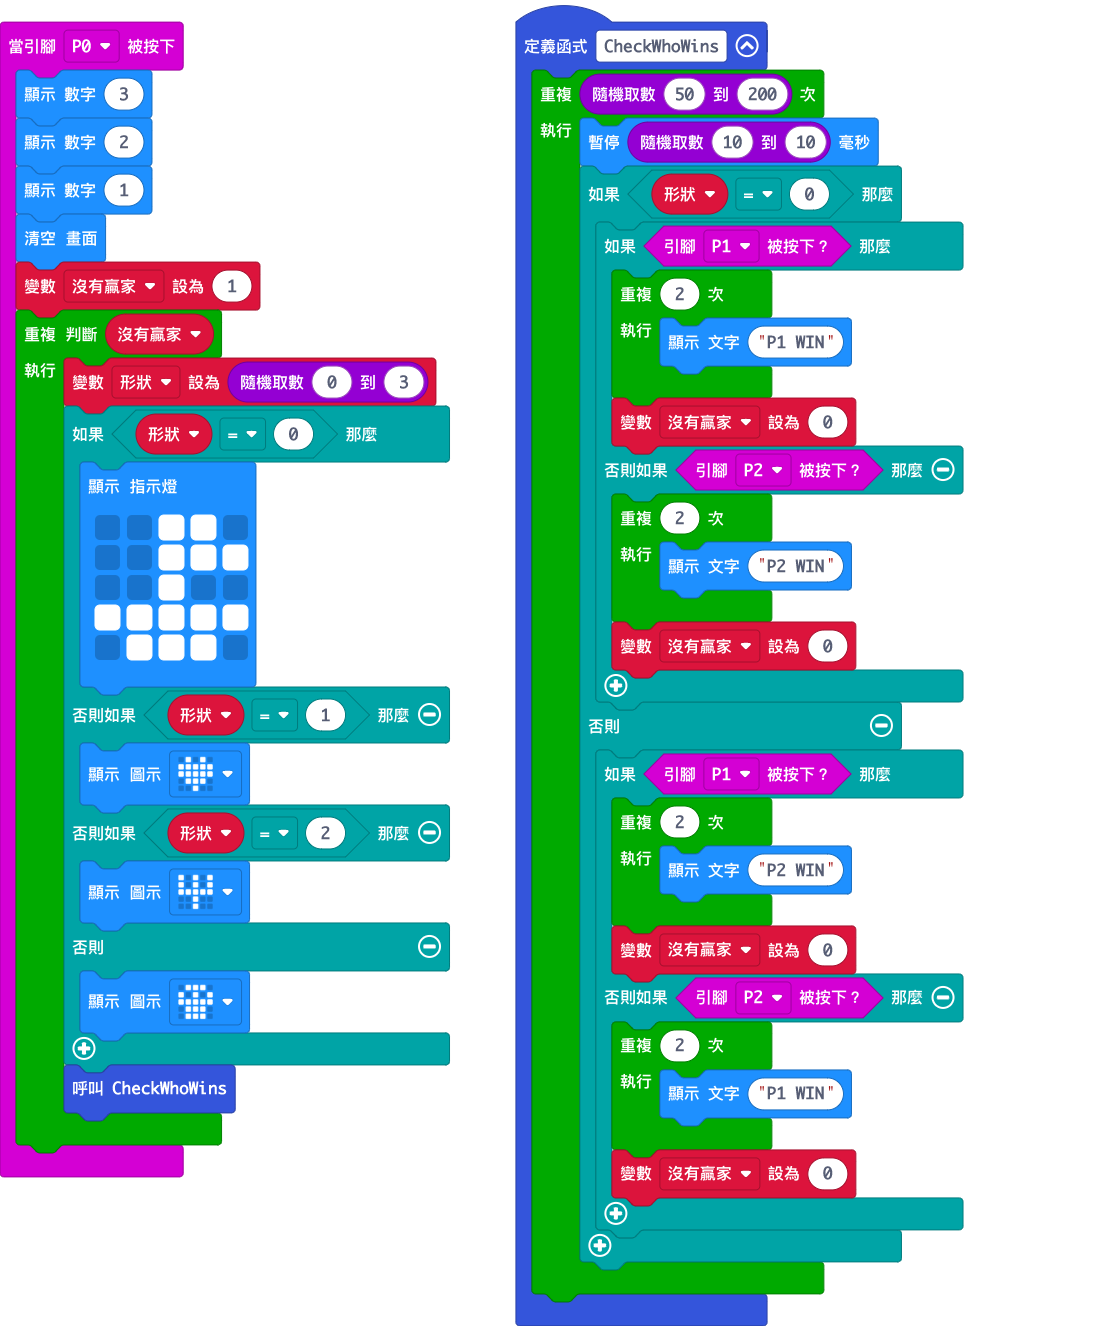
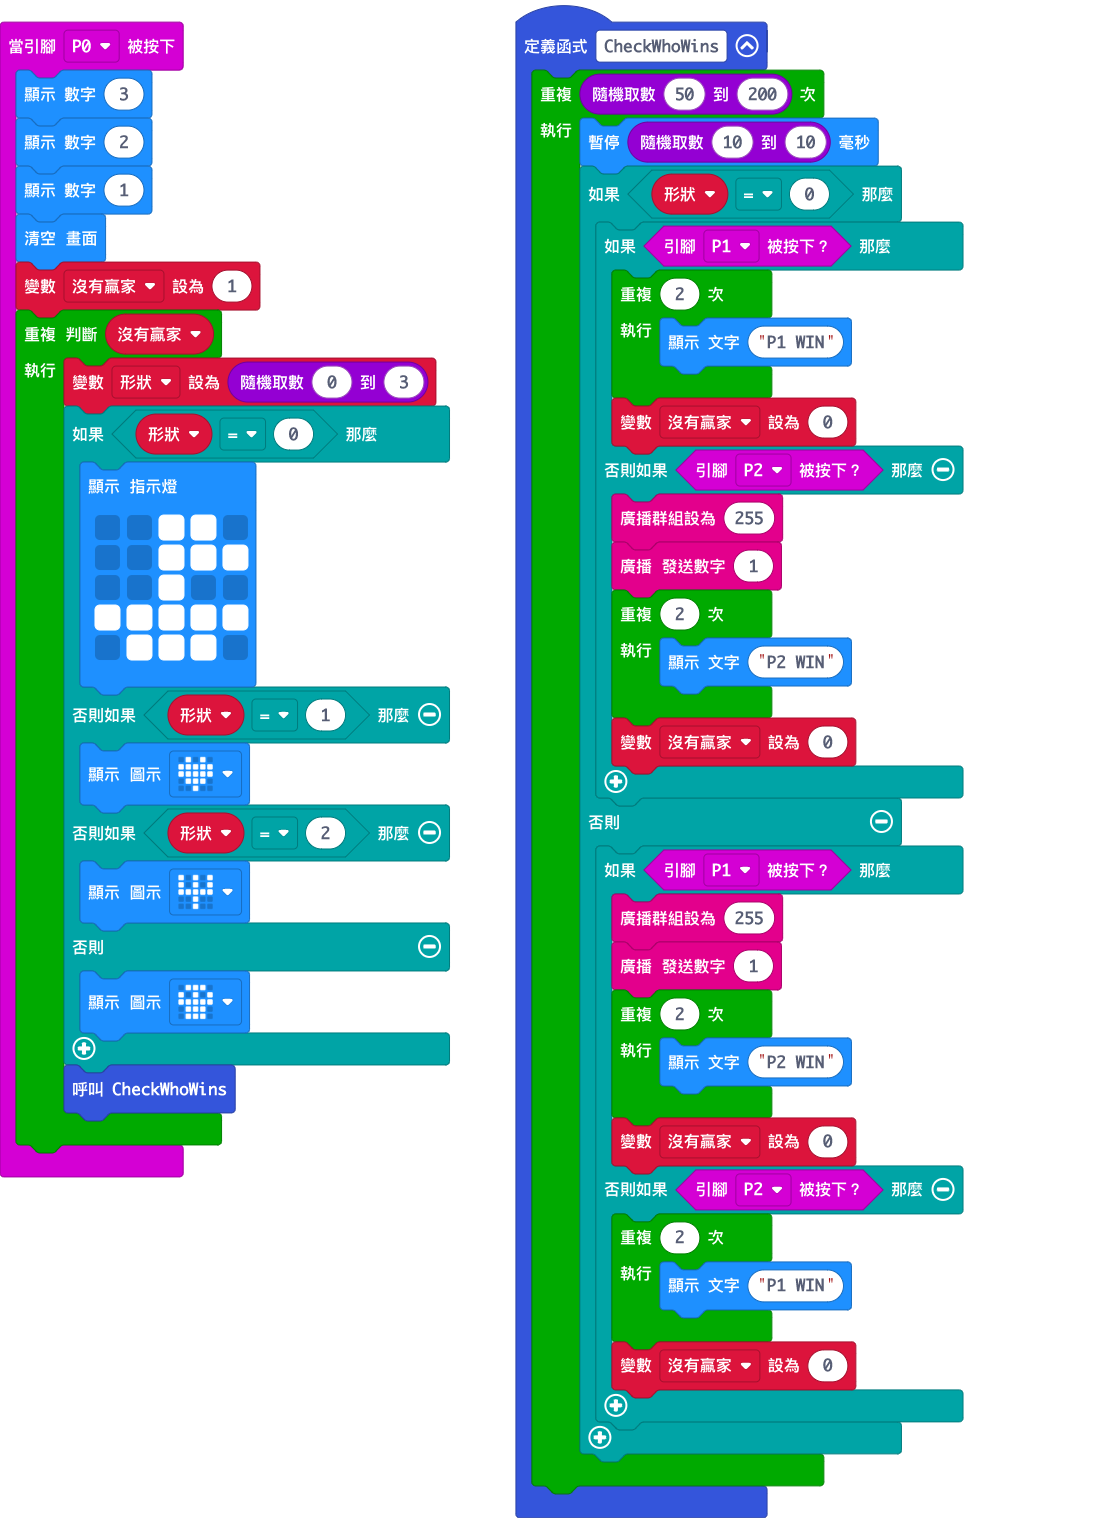
Add score counter

diff --git a/main.ts b/main.ts
@@ -36,6 +36,8 @@ function CheckWhoWins () {
                 }
                 沒有贏家 = 0
             } else if (input.pinIsPressed(TouchPin.P2)) {
+                radio.setGroup(255)
+                radio.sendNumber(1)
                 for (let index = 0; index < 2; index++) {
                     basic.showString("P2 WIN")
                 }
@@ -43,6 +45,8 @@ function CheckWhoWins () {
             }
         } else {
             if (input.pinIsPressed(TouchPin.P1)) {
+                radio.setGroup(255)
+                radio.sendNumber(1)
                 for (let index = 0; index < 2; index++) {
                     basic.showString("P2 WIN")
                 }
